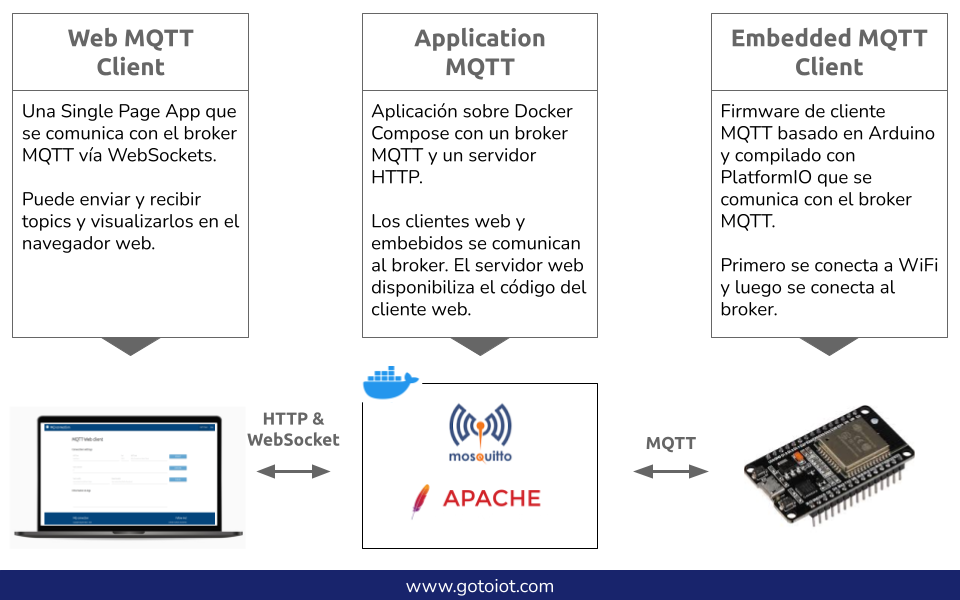
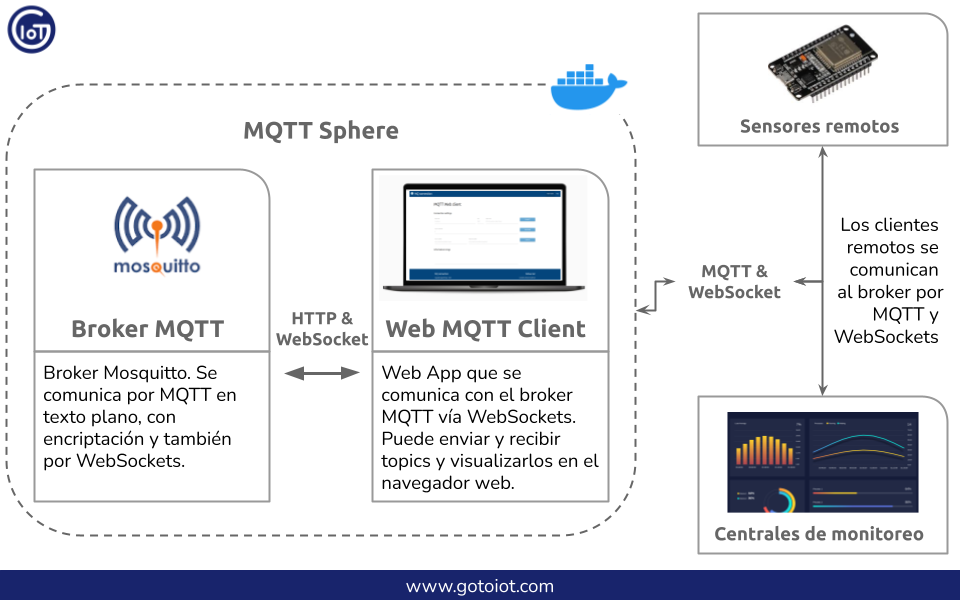
Improves commit, references and all documentation

diff --git a/README.md b/README.md
@@ -1,6 +1,13 @@
-# App MQTT Connection
+<a href="https://www.gotoiot.com/">
+    <img src="doc/logo-social-networks.png" alt="Goto IoT logo" title="Goto IoT" align="right" height="60" />
+</a>
+
+Sphere MQTT
+===========
 
 **Autor**: Agustin Bassi - 2021
+
+:star: Nos ayudarías mucho apoyando a Goto IoT con una estrella en Github!
 
 ## Tabla de contenido
 
@@ -9,68 +16,86 @@
 * [Instalar dependencias](#instalar-dependencias)
 * [Descargar el código](#descargar-el-código)
 * [Ejecutar la aplicación](#ejecutar-la-aplicación)
+* [Conectar clientes remotos](#conectar-clientes-remotos)
 * [Colaborar](#colaborar)
 * [Licencia](#licencia)
 
 ## Introducción
 
-Este proyecto es una demo de una aplicación IoT sobre MQTT. Se compone de un broker, un cliente web y otro embebido, y puede controlar un dispositivo remoto desde el navegador web.
+Este proyecto es una esfera que alberga distintas aplicaciones y servicios que conforman una plataforma integral MQTT. 
 
-El broker y el cliente web se ejecutan sobre el ecosistema Docker. La aplicación embebida corre sobre un ESP32 o similar y está desarrollada con PlatformIO.
+Está formado por un broker y un cliente web que corren sobre el ecosistema Docker, y pueden conectarse clientes externos como sensores remotos y centrales de monitoreo.
 
-Para que tengas una idea clara, en esta imagen hay un diagrama de la arquitectura de la aplicación.
+Para que tengas una idea clara, en esta imagen hay un diagrama de como interactuan las partes entre sí.
 
 ![architecture](doc/architecture.png)
 
+## Inicio rápido
+
+Seguí esta guía de pasos para ejecutar rápidamente el proyecto.
+
+<details><summary><b>Ver los pasos rápidos</b></summary>
+
+1. Instalá Docker y Docker Compose en tu sistema.
+2. Descargá el código.
+3. Poné en marcha la plataforma.
+4. Configurá el cliente web para conectarte al broker.
+5. Probá la comunicación.
+6. Configura y poné en marcha un cliente embebido para interactuar con la plaatforma (opcional).
+
+</details>
+
 ## Detalles principales
 
-Ahora que ya viste la arquitectura general, podes ver detalles más específicos.
+Conociendo las generalidades del proyecto ya podes ver detalles más específicos.
+
+<details><summary><b>Mira los detalles del proyecto</b></summary>
 
 #### `Cómo está armado el repo`
 
-Todos las piezas de la aplicación están separadas en distintos repositorios e incluídas como submódulos. Con esto se puede tener una arquitectura orientada a microservicios, y actualizar y mantener las partes de manera independiente sin necesidad de modificar este repositorio.
+Las piezas de la aplicación están separadas en distintos repositorios e incluídas como submódulos. Esto permite tener una arquitectura orientada a microservicios, y actualizar/mantener las partes de manera independiente.
 
 #### `El broker`
 
-El broker es la columna vertebral del sistema, donde los distintos clientes se comunican entre sí. Está basado en `Mosquitto` y soporta la conexión por Websockets en el puerto 9001, MQTT en el 1883 y el 8883 para comunicación con autenticación. Se ejecuta sobre un contenedor de Docker para poder correrlo de igual manera en distintas plataformas. Dentro de esta app se encuentra en el directorio `service-mqtt-broker` y los detalles sobre cómo funciona los podes ver el [README del proyecto](https://github.com/gotoiot/service-mqtt-broker).
+El broker es la columna vertebral del sistema, donde los distintos clientes se comunican entre sí. Está basado en `Mosquitto` y soporta la conexión por Websockets en el puerto 9001, MQTT en el 1883 y el 8883 para comunicación con autenticación. Se ejecuta sobre un contenedor de Docker para poder correrlo de igual manera en distintas plataformas. Se encuentra en el directorio `service-mqtt-broker` y los detalles sobre cómo funciona los podes ver el [README del proyecto](https://github.com/gotoiot/service-mqtt-broker).
 
 #### `El cliente web`
 
-El cliente web es una `single-page-application` que se comunica con el broker através de WebSockets. Desde acá se pueden publicar y suscribirse a topics, y visualizar los mensajes en tiempo real. El cliente web es accedido a través de un servidor que también se ejecuta sobre un contenedor de Docker. Dentro de esta app se encuentra en el directorio `web-mqtt-client` y los detalles sobre cómo funciona los podes ver en el [README del proyecto](https://github.com/gotoiot/web-mqtt-client).
-
-#### `El cliente embebido`
-
-El cliente embebido puede ser cualquier aplicación con comunicación MQTT. Para esta app se basa en el ejemplo `Pressure Measurer` del repo [Embed IoT Platform](https://github.com/gotoiot/embed-iot-platform), que es un proyecto integral para desarrollo IoT embebido. Además de este ejemplo tiene precargadas varias aplicaciones para correr sobre el ESP32 o alguna placa similar. Dentro de esta app se encuentra en el directorio `embed-iot-platform` y más adelante vas a ver cómo ponerlo en marcha. 
+El cliente web es una `single-page-application` que se comunica con el broker através de WebSockets. Desde acá se pueden publicar y suscribirse a topics, y visualizar los mensajes en tiempo real. El cliente web es accedido a través de un servidor que también se ejecuta sobre un contenedor de Docker. Se encuentra en el directorio `web-mqtt-client` y los detalles sobre cómo funciona los podes ver en el [README del proyecto](https://github.com/gotoiot/web-mqtt-client).
 
 #### `Ejecución de servicios`
 
 Los servicios de la aplicación se encuentran sobre contenedores de Docker, así se pueden desplegar de igual manera en diferentes plataformas. Los detalles sobre cómo funcionan los servicios los podés ver directamente en el archivo `docker-compose.yml` y complementar la información con el README de cada parte de la app.
 
+#### `Conexión de sensores/actuadores`
+
+La conexión con sensores y actuadores no está incluída dentro de este repositorio, ya que la plataforma se ejecuta sobre el ecosistema Docker. De todas maneras tenemos el repo [Embed IoT Core](https://github.com/gotoiot/embed-iot-core), que es una plataforma para desarrollar aplicaciones embebidas basadas en IoT. Tiene aplicaciones de ejemplo para diferentes protocolos de comunicación, y entre ellas, una sección dedicada a MQTT. Más abajo, en la sección [Conectar clientes remotos](#conectar-clientes-remotos), vas a encontrar los detalles para esto.
+
+</details>
+
 ## Instalar dependencias
 
-Para correr este proyecto es necesario que instales `Docker` y `Docker Compose`. Para la parte embebida hay que instalar `PlatformIO` dentro de `Visual Studio Code`.
+Para correr este proyecto es necesario que instales `Docker` y `Docker Compose`. 
 
-#### `Ecosistema Docker`
+<details><summary><b>Mira instrucciones de instalación</b></summary>
 
 En [este documento](https://www.gotoiot.com/pages/articles/docker_installation/index.html) publicado en nuestra web están los detalles para instalar Docker y Docker Compose. Si querés instalar ambas herramientas en una Raspberry Pi podés seguir [esta guía](https://devdojo.com/bobbyiliev/how-to-install-docker-and-docker-compose-on-raspberry-pi) que muestra todos los detalles de instalación.
 
 En caso que tengas algún incoveniente o quieras profundizar al respecto, podes leer la documentación oficial de [Docker](https://docs.docker.com/get-docker/) y también la de [Docker Compose](https://docs.docker.com/compose/install/).
 
-#### `Ecosistema embebido`
-
-Para la aplicación embebida vas a necesitar una placa ESP32 o similar e instalar PlatformIO dentro de VS Code. Instalá VS Code directamente de la [web oficial](https://code.visualstudio.com/download) y después en el artículo de [instalación de PlatformIO en VS Code](https://www.gotoiot.com/pages/articles/platformio_vscode_installation/) de nuestra web están los detalles de configuración de la herramienta y correr un programa de ejemplo.
-
 Continua con la descarga del código cuando tengas las dependencias instaladas y funcionando.
+
+</details>
 
 ## Descargar el código
 
-Para descargar el codigo, lo más conveniente es realizar un `fork` de este proyecto a tu cuenta personal haciendo click en [este link](https://github.com/gotoiot/app-mqtt-connection/fork). Una vez que ya tengas el fork a tu cuenta, descargalo desde la terminal con este comando (acordate de poner tu usuario en el link):
+Para descargar el codigo, lo más conveniente es realizar un `fork` de este proyecto a tu cuenta personal haciendo click en [este link](https://github.com/gotoiot/sphere-mqtt/fork). Una vez que ya tengas el fork a tu cuenta, descargalo desde la terminal con este comando (acordate de poner tu usuario en el link):
 
 ```
-git clone https://github.com/TU_USUARIO/app-mqtt-connection.git
+git clone https://github.com/USER/sphere-mqtt.git
 ```
 
-Cuando tengas el código principal, descargá/actualizá los submódulos del proyecto con este comando y pone a correr la aplicación una vez que descarguen:
+Cuando tengas el código principal, descargá/actualizá los submódulos del proyecto con este comando y continua con la ejecución de la aplicación una vez que descarguen:
 
 ```
 git submodule update --init --recursive --remote
@@ -84,54 +109,55 @@ Corre el comando `docker-compose up` desde la raíz del proyecto para descargar 
 
 Si pudiste acceder al cliente web significa que la aplicación se encuentra corriendo bien, ahora hay que configurarlo.
 
-#### `Comunicación con el cliente web`
+<details><summary><b>Cofiguración del cliente web</b></summary>
 
 En el cliente web hay varios campos que tienen valores precargados para que no tengas que escribirlos cada vez.
 
 Modifica los campos que necesites para el broker y comenzá presionando `CONNECT`. Después `SUBSCRIBE` para suscribirte a todos los topics (`#`) y una vez que te suscribas presioná `PUBLISH` para producir un `echo` del mensaje enviado. Fijate que en la sección de logs aparecen las acciones que vas realizando.
 
-Si querés saber más detalles podes ir al [README del proyecto](https://github.com/gotoiot/web-mqtt-client), y sino podes continuar poniendo en marcha la aplicación embebida.
+También podés abrir una nueva instancia del cliente web en otra pestaña del navegador y probar la comunicación publicando topics desde un cliente y recibiendo por el otro. 
 
-#### `Comunicación con el cliente embebido`
+Si querés saber más detalles podes ir al [README del proyecto](https://github.com/gotoiot/web-mqtt-client). 
 
-El cliente embebido es la aplicación Pressure Measurer del proyecto `Embed IoT Platform`, que como vimos, es una plataforma que facilita el desarrollo e implementación de aplicaciones embebidas IoT.
+</details>
 
-Abrí la carpeta del proyecto desde VS Code y copia el contenido del archivo `embed-iot-platform/examples/mqtt/pressure_measurer/pressure_measurer.cpp`. Después reemplazá todo el contenido del archivo `embed-iot-platform/src/main.cpp` por el código que copiaste.
+## Conectar clientes remotos
 
-También vas a necesitar poner un ID de dispositivo, los datos del WiFi y la IP del broker MQTT dentro del archivo `embed-iot-platform/src/secrets.h`.
+Como viste en el diagrama de las partes, la `Sphere MQTT` tiene un core compuesto por el broker y el cliente web, y luego distintos clientes pueden conectarse para interactuar con la plataforma. En esta sección podes ver más detalles al respecto.
 
-Los detalles sobre el Embed IoT Platform en general los podés ver en el [README del proyecto](https://github.com/gotoiot/embed-iot-platform) y los detalles específicos del Pressure Measurer los vas a encontrar en el [README del ejemplo](https://github.com/gotoiot/embed-iot-platform/blob/master/examples/mqtt/pressure_measurer/README.md).
+<details><summary><b>Aplicaciones MQTT basadas en "Embed IoT Core"</b></summary>
 
-Cuando ya tengas el código listo anda a la extensión PlatformIO en VSCode y abrí una terminal desde la sección `Quick Access->Miscellaneous->New Terminal`. Chequea que estés dentro del directorio embed-iot-platform en la terminal y corre el comando `pio run -t upload && pio device monitor` para compilar el código, descargarlo a la placa y abrir la terminal serie. Deberías ver una salida como esta cuando el programa empiece a correr:
+En la sección de [Detalles principales](#detalles-principales) viste que es posible conectar sensores/actuadores a la plataforma. 
 
-```
-Welcome to Pressure Measurer - www.gotoiot.com
+Dentro de nuestros proyectos tenemos a [Embed IoT Core](https://github.com/gotoiot/embed-iot-core), que es una plataforma exclusivamente dedicada al desarrollo de aplicaciones embebidas orientadas a IoT. Dentro de este proyecto hay aplicaciones de ejemplo para distintos protocolos de comunicación, y entre ellas, ejemplos para MQTT. 
 
-Trying connection to Wifi SSID 'WIFI_SSID'.
-Wifi connected. Assigned device IP: '192.168.0.103'
-Subscribed to topic: 'DEVICE_ID/config'
-Subscribed to topic: 'DEVICE_ID/status/get'
-Sending MQTT Topic 'up' -> '{"device_id": "DEVICE_ID, "ip": "192.168.0.103", "status": "running"}'
-Sending MQTT Topic 'DEVICE_ID/pressure'->'{"value": 55, "measure": "psi", "time": 12340074}
-...
-Sending MQTT Topic 'DEVICE_ID/pressure'->'{ "value": 83, "measure": "psi", "time": 448821023}
-```
+Para poder correr cualquiera de las aplicaciones vas a necesitar una placa basada en el módulo `ESP32` o similar; instalar `Visual Studio Code` en tu sistema, y dentro de VS Code instalar la extensión `PlatformIO`. Esta extensión es un toolchain para desarrollo de sistemas embebidos especialmente útil, que se encarga del manejo de bibliotecas, compilación y descarga de código, debugging, y muchas cosas más. 
 
-#### `Comunicación entre clientes`
+Si querés poner en marcha una aplicación embebida para conectarte, te recomendamos que le des una leída al [README del proyecto](https://github.com/gotoiot/embed-iot-core), que tiene toda la información para que entiendas de qué se trata, cómo descargar el código e instalar las dependencias, y cómo poner en marcha un ejemplo de prueba.
 
-Con el cliente web suscripto a todos los topics deberías comenzar a ver los mensajes enviados por el Pressure Measurer en la sección de logs. Si publicás desde el cliente web el topic `DEVICE_ID/config` con un valor entre 1000 y 10000 ms vas a poder cambiar el período en que el dispositivo publica las mediciones fake de presión y este tiempo se va a ver reflejado en cómo llegan los mensajes al log.
+Cuando tengas andando el ejemplo de prueba, podés elegir algunas de las aplicaciones MQTT dentro de la [lista de aplicaciones](https://github.com/gotoiot/embed-iot-core#lista-de-aplicaciones) para conectarte a la `Sphere MQTT`. 
 
-Realizá distintas pruebas y fijate cómo responden ambos clientes tanto en la sección de logs del cliente web como en la terminal serie del cliente embebido.
+La info necesaria para configurar el proyecto y correr las aplicaciones está directamente en el [README del proyecto](https://github.com/gotoiot/embed-iot-core), así podés siempre acceder a la información actualizada. 
 
-#### `Otras aplicaciones embebidas`
+</details>
 
-Ahora que ya sabés como correr el ejemplo Pressure Measurer, podés probar cualquier otra aplicación MQTT dentro de la [sección de ejemplos MQTT](https://github.com/gotoiot/embed-iot-platform/blob/master/examples/mqtt) del proyecto Embed IoT Platform. Los detalles de implementación los vas a encontrar dentro del README de cada uno.
+<details><summary><b>Comunicación entre clientes</b></summary>
+
+Si ya tenés configurado y andando el cliente web, y también pusiste en marcha alguna aplicación MQTT basada en `Embed IoT Core` es hora que hagas algunas pruebas de todas las partes para ver cómo interactúan. 
+
+El propósito del cliente web es actuar como una terminal para enviar/recibir topics y visualizarlos en tiempo real. Suscribite a todos los topics desde el cliente web y luego intentá conectarte broker con la aplicación embebida. Si todo funciona bien, dentro del cliente web deberías ver los topics que envía la app embebida.
+
+Lee la documentación de la app embebida para ver qué topics puede recibir, así le podes mandar mensajes desde el cliente web para controlar el dispositivo.
+
+Realizando estas pruebas vas a poder tener un caso de uso real en el que un dispositivo remoto es controlado desde un navegador web.
+
+</details>
 
 ## Colaborar
 
-¿Te gustó el proyecto? Si es así no dudes en apoyarlo con una estrella en Github desde [la home del proyecto](https://github.com/gotoiot/app-mqtt-connection), esto motiva mucho a seguir adelante con el desarrollo de código para la comunidad. Si estás interesado en recibir novedades cuando se hagan actualizaciones, podes suscribirte desde [este link](https://github.com/gotoiot/app-mqtt-connection/subscription).
+¿Te gustó el proyecto? Si es así no dudes en apoyarlo con una Star en Github desde [la home del proyecto](https://github.com/gotoiot/sphere-mqtt), esto motiva mucho a seguir adelante con el desarrollo de código para la comunidad. Si estás interesado en recibir novedades cuando se hagan actualizaciones, podes suscribirte desde [este link](https://github.com/gotoiot/sphere-mqtt/subscription).
 
-Si te gustaría aplicar mejoras a este proyecto podes abrir un hilo de discusión en [este link](https://github.com/gotoiot/app-mqtt-connection/issues/new) para conversarlas y luego podrías enviarlas mediante un `pull request`. 
+Si te gustaría aplicar mejoras a este proyecto podes abrir un hilo de discusión en [este link](https://github.com/gotoiot/sphere-mqtt/issues/new) para conversarlas y luego podrías enviarlas mediante un `pull request`. 
 
 Finalmente podés compartir este proyecto para que más personas puedan utilizarlo y beneficiarse de esta gran comunidad del software libre.
 
